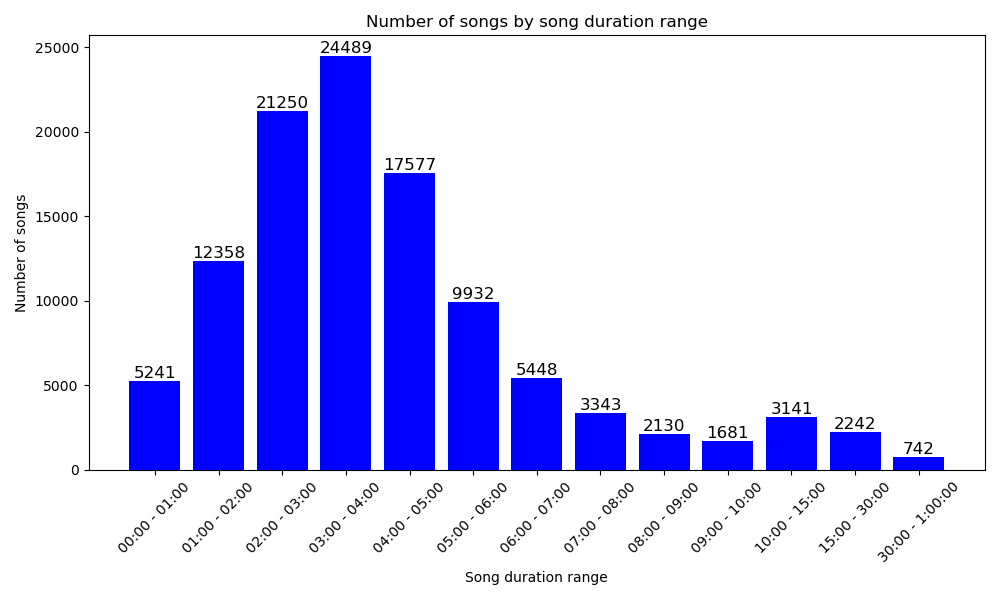
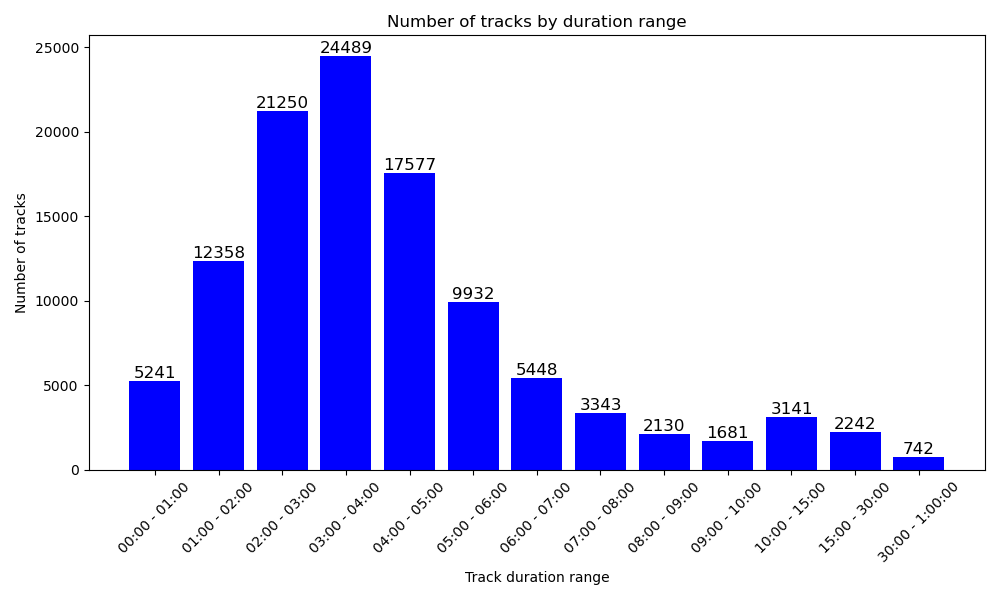
update title and legend analyse_cyp

Changed region(s): [[0.372, 0.03, 0.713, 0.06], [0.465, 0.93, 0.62, 0.99], [0.0, 0.33, 0.031, 0.51]]

diff --git a/script/analyse/analyse_cyp.py b/script/analyse/analyse_cyp.py
@@ -40,9 +40,9 @@ count_per_bin = df["duration_range"].value_counts().sort_index()
 plt.figure(figsize=(10,6))
 bars = plt.bar(count_per_bin.index.astype(str), count_per_bin.values, color="blue")
 plt.xticks(rotation=45)
-plt.xlabel("Song duration range")
-plt.ylabel("Number of songs")
-plt.title("Number of songs by song duration range")
+plt.xlabel("Track duration range")
+plt.ylabel("Number of tracks")
+plt.title("Number of tracks by duration range")
 plt.tight_layout()
 
 for bar in bars:
@@ -61,9 +61,9 @@ favorites_per_bin = df.groupby("duration_range")["track_interest"].mean()
 
 plt.figure(figsize=(10,6))
 bars = plt.bar(favorites_per_bin.index.astype(str), favorites_per_bin.values, color="blue")
-plt.xlabel("Song duration range")
+plt.xlabel("Track duration range")
 plt.ylabel("Average interest score (FMA)")
-plt.title("Average interest score by song duration range")
+plt.title("Average interest score by track duration range")
 plt.xticks(rotation=45)
 
 # Ajouter les valeurs au-dessus de chaque barre
